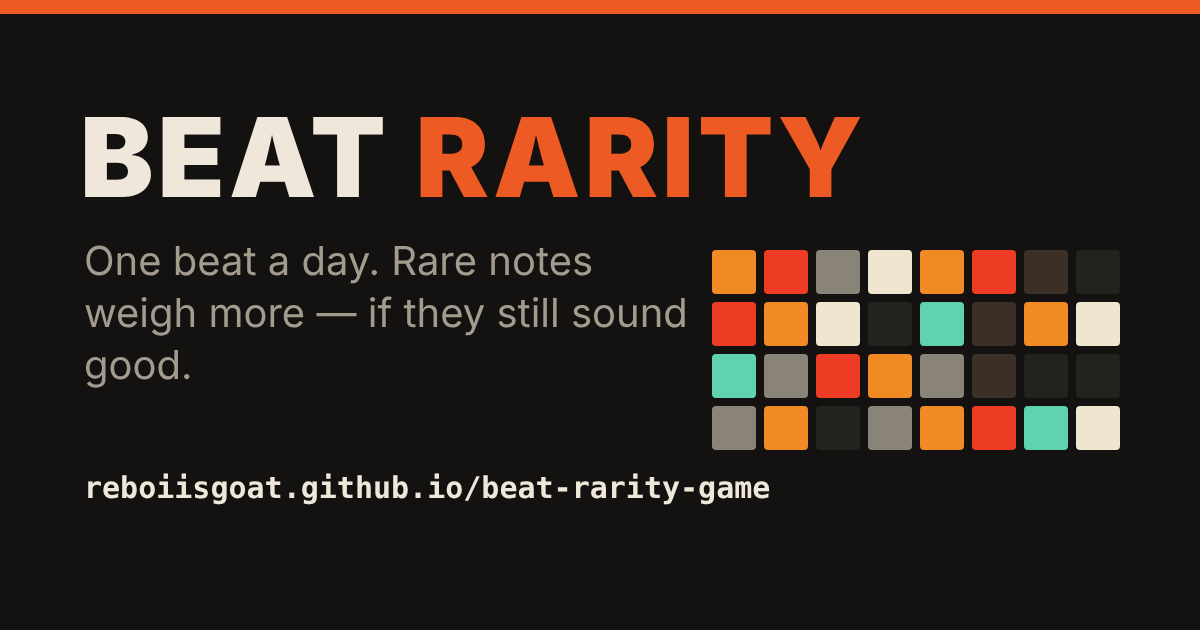
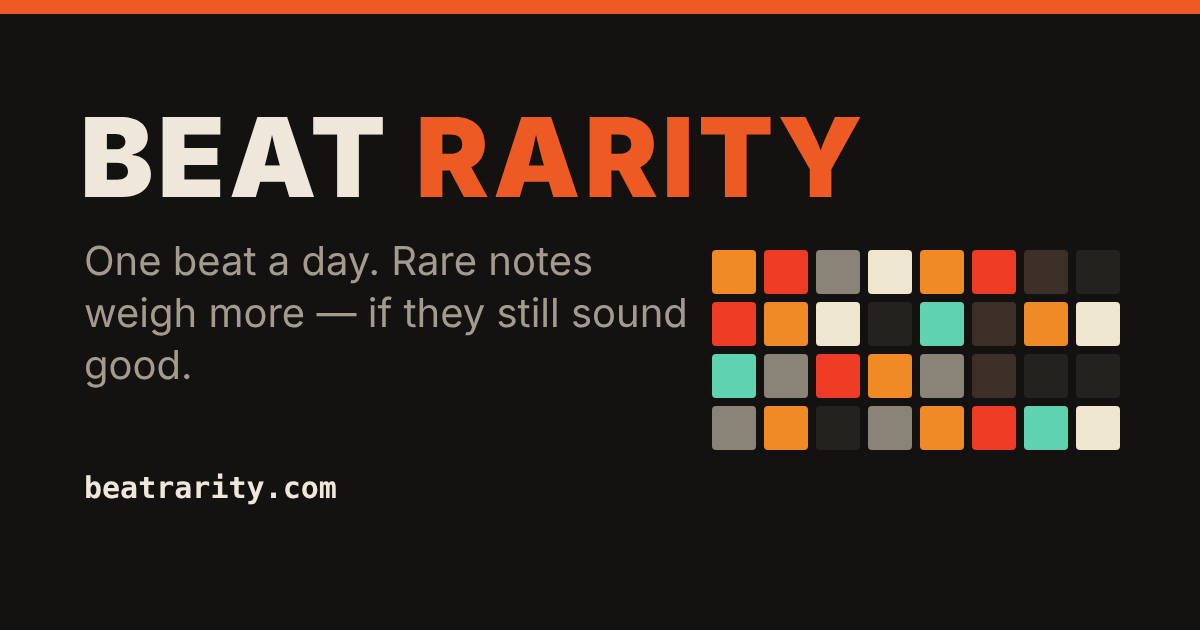
Use beatrarity.com: clip link, link previews, setup guide
Claude-Session: https://claude.ai/code/session_012Aq1CbzHrkrDMSEwLDFN3H

Changed region(s): [[0.0617, 0.754, 0.6475, 0.8143]]

diff --git a/index.html b/index.html
@@ -9,8 +9,8 @@
 <meta property="og:type" content="website">
 <meta property="og:title" content="Beat Rarity — the daily beat game">
 <meta property="og:description" content="Build today's beat. Rare notes weigh more — if they still sound good. One beat a day, the same for everyone.">
-<meta property="og:url" content="https://reboiisgoat.github.io/beat-rarity-game/">
-<meta property="og:image" content="https://reboiisgoat.github.io/beat-rarity-game/og.png">
+<meta property="og:url" content="https://beatrarity.com/">
+<meta property="og:image" content="https://beatrarity.com/og.png">
 <meta property="og:image:width" content="1200"><meta property="og:image:height" content="630">
 <meta name="twitter:card" content="summary_large_image">
 <link rel="icon" type="image/png" sizes="32x32" href="icons/icon-32.png">
@@ -3209,7 +3209,7 @@ function doubleTapHat(e) {        // phones: a second tap on the same hat within
    Payments, accounts and the real league need Phase B (Supabase + a payment provider); until then the club has a demo
    unlock and league rivals are simulated (and say so).
    ============================================================ */
-const LIVE_URL = "reboiisgoat.github.io/beat-rarity-game";
+const LIVE_URL = "beatrarity.com";
 const TIP_URL = "";                 // Ko-fi / Buy Me a Coffee link; the tip buttons stay hidden until it's set
 const SPONSOR = null;               // e.g. { name: "Brand", url: "https://…" } — the "today's kit presented by" slot stays hidden until set
 const SHOW_AD = false;              // the single results-screen ad slot (off at launch)

diff --git a/docs/SETUP-SUPABASE.md b/docs/SETUP-SUPABASE.md
@@ -5,8 +5,8 @@ Project: `https://zktvbvlmxlgkxbdjrovd.supabase.co`. The game only ever uses the
 ## 1. Auth settings (Dashboard → Authentication)
 - **Sign In / Providers:** turn on **Allow anonymous sign-ins**; keep **Email** on.
 - **URL Configuration:**
-  - Site URL: `https://reboiisgoat.github.io/beat-rarity-game/`
-  - Redirect URLs: add `https://reboiisgoat.github.io/beat-rarity-game/**`
+  - Site URL: `https://beatrarity.com/`
+  - Redirect URLs: add `https://beatrarity.com/**` and `https://www.beatrarity.com/**` (keep the old github.io one too while it forwards)
 - **Attack Protection:** turn on CAPTCHA later if bots start creating accounts.
 
 ## 2. Database
@@ -49,7 +49,7 @@ Same as step 3: new function named `delete-account`, paste `server/delete-accoun
 Do it in **test mode** first; repeat in live mode when you launch.
 
 1. **Payment links → each link → Edit → After payment:** "Don't show confirmation page" → redirect to
-   `https://reboiisgoat.github.io/beat-rarity-game/?club=thanks`
+   `https://beatrarity.com/?club=thanks`
 2. **Edge Function `stripe-webhook`:** new function named `stripe-webhook`, paste `server/stripe-webhook/index.ts`, deploy, turn **Enforce JWT verification OFF**.
 3. **Stripe → Developers → Webhooks → Add endpoint:**
    - URL: `https://zktvbvlmxlgkxbdjrovd.supabase.co/functions/v1/stripe-webhook`
